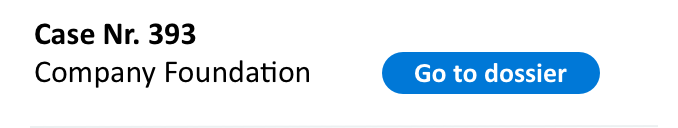
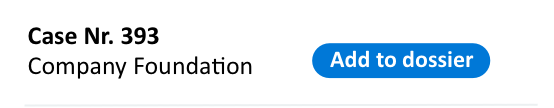
added empty links for hover effect

diff --git a/outlook/styles.css b/outlook/styles.css
@@ -12,16 +12,16 @@
 	background-repeat: no-repeat;
 }
 
-/* Specific to Outlook */
-.sk-ab.sk-Outlook {
+/* Specific to Outlook Small Window */
+.sk-ab.sk-Outlook-Small-Window {
 	background-color: #FFFFFF;
-	width: 1549px;
-	height: 835px;
+	width: 1284px;
+	height: 694px;
 }
 
 .sk-asset.sk-Outlook-Standard {
-	width: 1545px;
-	height: 829px;
+	width: 1280px;
+	height: 687px;
 	left: 3px;
 	top: 4px;
 	background-image: url("images/Outlook Standard.png");
@@ -33,7 +33,7 @@ only screen and (-webkit-min-device-pixel-ratio: 2),
 only screen and (min-device-pixel-ratio: 2) {
 	.sk-asset.sk-Outlook-Standard {
 		background-image: url("images/Outlook Standard@2x.png");
-		background-size: 1545px 829px;
+		background-size: 1280px 687px;
 	}
 }
 @media only screen and (min--moz-device-pixel-ratio: 3),
@@ -42,14 +42,14 @@ only screen and (-webkit-min-device-pixel-ratio: 3),
 only screen and (min-device-pixel-ratio: 3) {
 	.sk-asset.sk-Outlook-Standard {
 		background-image: url("images/Outlook Standard@3x.png");
-		background-size: 1545px 829px;
+		background-size: 1280px 687px;
 	}
 }
 .sk-asset.sk-BG-Grey {
-	width: 355px;
-	height: 646px;
-	left: 1193px;
-	top: 167px;
+	width: 290px;
+	height: 532px;
+	left: 992px;
+	top: 141px;
 	background-image: url("images/BG Grey.png");
 }
 
@@ -59,7 +59,7 @@ only screen and (-webkit-min-device-pixel-ratio: 2),
 only screen and (min-device-pixel-ratio: 2) {
 	.sk-asset.sk-BG-Grey {
 		background-image: url("images/BG Grey@2x.png");
-		background-size: 355px 646px;
+		background-size: 290px 532px;
 	}
 }
 @media only screen and (min--moz-device-pixel-ratio: 3),
@@ -68,14 +68,14 @@ only screen and (-webkit-min-device-pixel-ratio: 3),
 only screen and (min-device-pixel-ratio: 3) {
 	.sk-asset.sk-BG-Grey {
 		background-image: url("images/BG Grey@3x.png");
-		background-size: 355px 646px;
+		background-size: 290px 532px;
 	}
 }
 .sk-asset.sk-Last-Activities {
-	width: 339px;
-	height: 123px;
-	left: 1200px;
-	top: 516px;
+	width: 277px;
+	height: 101px;
+	left: 998px;
+	top: 429px;
 	background-image: url("images/Last Activities.png");
 }
 
@@ -85,7 +85,7 @@ only screen and (-webkit-min-device-pixel-ratio: 2),
 only screen and (min-device-pixel-ratio: 2) {
 	.sk-asset.sk-Last-Activities {
 		background-image: url("images/Last Activities@2x.png");
-		background-size: 339px 123px;
+		background-size: 277px 101px;
 	}
 }
 @media only screen and (min--moz-device-pixel-ratio: 3),
@@ -94,14 +94,14 @@ only screen and (-webkit-min-device-pixel-ratio: 3),
 only screen and (min-device-pixel-ratio: 3) {
 	.sk-asset.sk-Last-Activities {
 		background-image: url("images/Last Activities@3x.png");
-		background-size: 339px 123px;
+		background-size: 277px 101px;
 	}
 }
 .sk-asset.sk-Detected-Relations {
-	width: 339px;
-	height: 123px;
-	left: 1200px;
-	top: 386px;
+	width: 277px;
+	height: 101px;
+	left: 998px;
+	top: 322px;
 	background-image: url("images/Detected Relations.png");
 }
 
@@ -111,7 +111,7 @@ only screen and (-webkit-min-device-pixel-ratio: 2),
 only screen and (min-device-pixel-ratio: 2) {
 	.sk-asset.sk-Detected-Relations {
 		background-image: url("images/Detected Relations@2x.png");
-		background-size: 339px 123px;
+		background-size: 277px 101px;
 	}
 }
 @media only screen and (min--moz-device-pixel-ratio: 3),
@@ -120,14 +120,92 @@ only screen and (-webkit-min-device-pixel-ratio: 3),
 only screen and (min-device-pixel-ratio: 3) {
 	.sk-asset.sk-Detected-Relations {
 		background-image: url("images/Detected Relations@3x.png");
-		background-size: 339px 123px;
+		background-size: 277px 101px;
+	}
+}
+.sk-asset.sk-BTN-Law-102 {
+	width: 150px;
+	height: 19px;
+	left: 1117px;
+	top: 363px;
+	background-image: url("images/BTN Law 102.png");
+}
+
+@media only screen and (min--moz-device-pixel-ratio: 2),
+only screen and (-o-min-device-pixel-ratio: 2/1),
+only screen and (-webkit-min-device-pixel-ratio: 2),
+only screen and (min-device-pixel-ratio: 2) {
+	.sk-asset.sk-BTN-Law-102 {
+		background-image: url("images/BTN Law 102@2x.png");
+		background-size: 150px 19px;
+	}
+}
+@media only screen and (min--moz-device-pixel-ratio: 3),
+only screen and (-o-min-device-pixel-ratio: 3/1),
+only screen and (-webkit-min-device-pixel-ratio: 3),
+only screen and (min-device-pixel-ratio: 3) {
+	.sk-asset.sk-BTN-Law-102 {
+		background-image: url("images/BTN Law 102@3x.png");
+		background-size: 150px 19px;
+	}
+}
+.sk-asset.sk-BTN-Law-101 {
+	width: 107px;
+	height: 19px;
+	left: 1006px;
+	top: 363px;
+	background-image: url("images/BTN Law 101.png");
+}
+
+@media only screen and (min--moz-device-pixel-ratio: 2),
+only screen and (-o-min-device-pixel-ratio: 2/1),
+only screen and (-webkit-min-device-pixel-ratio: 2),
+only screen and (min-device-pixel-ratio: 2) {
+	.sk-asset.sk-BTN-Law-101 {
+		background-image: url("images/BTN Law 101@2x.png");
+		background-size: 107px 19px;
+	}
+}
+@media only screen and (min--moz-device-pixel-ratio: 3),
+only screen and (-o-min-device-pixel-ratio: 3/1),
+only screen and (-webkit-min-device-pixel-ratio: 3),
+only screen and (min-device-pixel-ratio: 3) {
+	.sk-asset.sk-BTN-Law-101 {
+		background-image: url("images/BTN Law 101@3x.png");
+		background-size: 107px 19px;
+	}
+}
+.sk-asset.sk-BTN-Person {
+	width: 76px;
+	height: 19px;
+	left: 1006px;
+	top: 386px;
+	background-image: url("images/BTN Person.png");
+}
+
+@media only screen and (min--moz-device-pixel-ratio: 2),
+only screen and (-o-min-device-pixel-ratio: 2/1),
+only screen and (-webkit-min-device-pixel-ratio: 2),
+only screen and (min-device-pixel-ratio: 2) {
+	.sk-asset.sk-BTN-Person {
+		background-image: url("images/BTN Person@2x.png");
+		background-size: 76px 19px;
+	}
+}
+@media only screen and (min--moz-device-pixel-ratio: 3),
+only screen and (-o-min-device-pixel-ratio: 3/1),
+only screen and (-webkit-min-device-pixel-ratio: 3),
+only screen and (min-device-pixel-ratio: 3) {
+	.sk-asset.sk-BTN-Person {
+		background-image: url("images/BTN Person@3x.png");
+		background-size: 76px 19px;
 	}
 }
 .sk-asset.sk-Case-225 {
-	width: 339px;
-	height: 64px;
-	left: 1200px;
-	top: 314px;
+	width: 277px;
+	height: 53px;
+	left: 998px;
+	top: 262px;
 	background-image: url("images/Case 225.png");
 }
 
@@ -137,7 +215,7 @@ only screen and (-webkit-min-device-pixel-ratio: 2),
 only screen and (min-device-pixel-ratio: 2) {
 	.sk-asset.sk-Case-225 {
 		background-image: url("images/Case 225@2x.png");
-		background-size: 339px 64px;
+		background-size: 277px 53px;
 	}
 }
 @media only screen and (min--moz-device-pixel-ratio: 3),
@@ -146,14 +224,14 @@ only screen and (-webkit-min-device-pixel-ratio: 3),
 only screen and (min-device-pixel-ratio: 3) {
 	.sk-asset.sk-Case-225 {
 		background-image: url("images/Case 225@3x.png");
-		background-size: 339px 64px;
+		background-size: 277px 53px;
 	}
 }
 .sk-asset.sk-Case-393 {
-	width: 339px;
-	height: 65px;
-	left: 1200px;
-	top: 250px;
+	width: 277px;
+	height: 54px;
+	left: 998px;
+	top: 209px;
 	background-image: url("images/Case 393.png");
 }
 
@@ -163,7 +241,7 @@ only screen and (-webkit-min-device-pixel-ratio: 2),
 only screen and (min-device-pixel-ratio: 2) {
 	.sk-asset.sk-Case-393 {
 		background-image: url("images/Case 393@2x.png");
-		background-size: 339px 65px;
+		background-size: 277px 54px;
 	}
 }
 @media only screen and (min--moz-device-pixel-ratio: 3),
@@ -172,40 +250,40 @@ only screen and (-webkit-min-device-pixel-ratio: 3),
 only screen and (min-device-pixel-ratio: 3) {
 	.sk-asset.sk-Case-393 {
 		background-image: url("images/Case 393@3x.png");
-		background-size: 339px 65px;
+		background-size: 277px 54px;
 	}
 }
-.sk-asset.sk-Detected-Cases {
-	width: 339px;
-	height: 34px;
-	left: 1200px;
-	top: 217px;
-	background-image: url("images/Detected Cases.png");
+.sk-asset.sk-Detected-Cases-Copy {
+	width: 277px;
+	height: 28px;
+	left: 998px;
+	top: 182px;
+	background-image: url("images/Detected Cases Copy.png");
 }
 
 @media only screen and (min--moz-device-pixel-ratio: 2),
 only screen and (-o-min-device-pixel-ratio: 2/1),
 only screen and (-webkit-min-device-pixel-ratio: 2),
 only screen and (min-device-pixel-ratio: 2) {
-	.sk-asset.sk-Detected-Cases {
-		background-image: url("images/Detected Cases@2x.png");
-		background-size: 339px 34px;
+	.sk-asset.sk-Detected-Cases-Copy {
+		background-image: url("images/Detected Cases Copy@2x.png");
+		background-size: 277px 28px;
 	}
 }
 @media only screen and (min--moz-device-pixel-ratio: 3),
 only screen and (-o-min-device-pixel-ratio: 3/1),
 only screen and (-webkit-min-device-pixel-ratio: 3),
 only screen and (min-device-pixel-ratio: 3) {
-	.sk-asset.sk-Detected-Cases {
-		background-image: url("images/Detected Cases@3x.png");
-		background-size: 339px 34px;
+	.sk-asset.sk-Detected-Cases-Copy {
+		background-image: url("images/Detected Cases Copy@3x.png");
+		background-size: 277px 28px;
 	}
 }
 .sk-asset.sk-Header {
-	width: 355px;
-	height: 39px;
-	left: 1193px;
-	top: 167px;
+	width: 290px;
+	height: 32px;
+	left: 992px;
+	top: 141px;
 	background-image: url("images/Header.png");
 }
 
@@ -215,7 +293,7 @@ only screen and (-webkit-min-device-pixel-ratio: 2),
 only screen and (min-device-pixel-ratio: 2) {
 	.sk-asset.sk-Header {
 		background-image: url("images/Header@2x.png");
-		background-size: 355px 39px;
+		background-size: 290px 32px;
 	}
 }
 @media only screen and (min--moz-device-pixel-ratio: 3),
@@ -224,6 +302,6 @@ only screen and (-webkit-min-device-pixel-ratio: 3),
 only screen and (min-device-pixel-ratio: 3) {
 	.sk-asset.sk-Header {
 		background-image: url("images/Header@3x.png");
-		background-size: 355px 39px;
+		background-size: 290px 32px;
 	}
 }

diff --git a/outlook/index.html b/outlook/index.html
@@ -3,14 +3,17 @@
 		<link href='styles.css' rel='stylesheet'>
 	</head>
 	<body>
-		<div class='sk-ab sk-Outlook'>
+		<div class='sk-ab sk-Outlook-Small-Window'>
 			<div class='sk-asset sk-Outlook-Standard'></div>
 			<div class='sk-asset sk-BG-Grey'></div>
 			<div class='sk-asset sk-Last-Activities'></div>
 			<div class='sk-asset sk-Detected-Relations'></div>
-			<div class='sk-asset sk-Case-225'></div>
-			<div class='sk-asset sk-Case-393'></div>
-			<div class='sk-asset sk-Detected-Cases'></div>
+			<a href=""><div class='sk-asset sk-BTN-Law-102'></div></a>
+			<a href=""><div class='sk-asset sk-BTN-Law-101'></div></a>
+			<a href=""><div class='sk-asset sk-BTN-Person'></div></a>
+			<a href=""><div class='sk-asset sk-Case-225'></div></a>
+			<a href=""><div class='sk-asset sk-Case-393'></div></a>
+			<div class='sk-asset sk-Detected-Cases-Copy'></div>
 			<div class='sk-asset sk-Header'></div>
 		</div>
 	</body>
